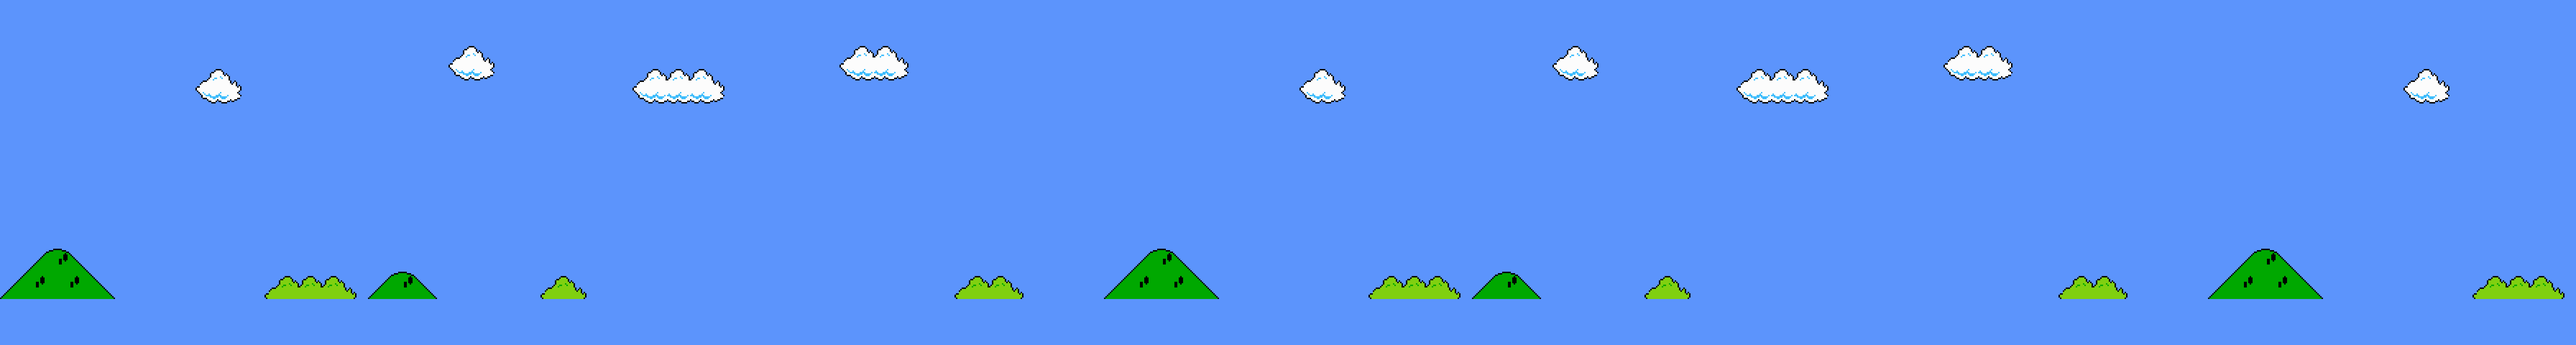
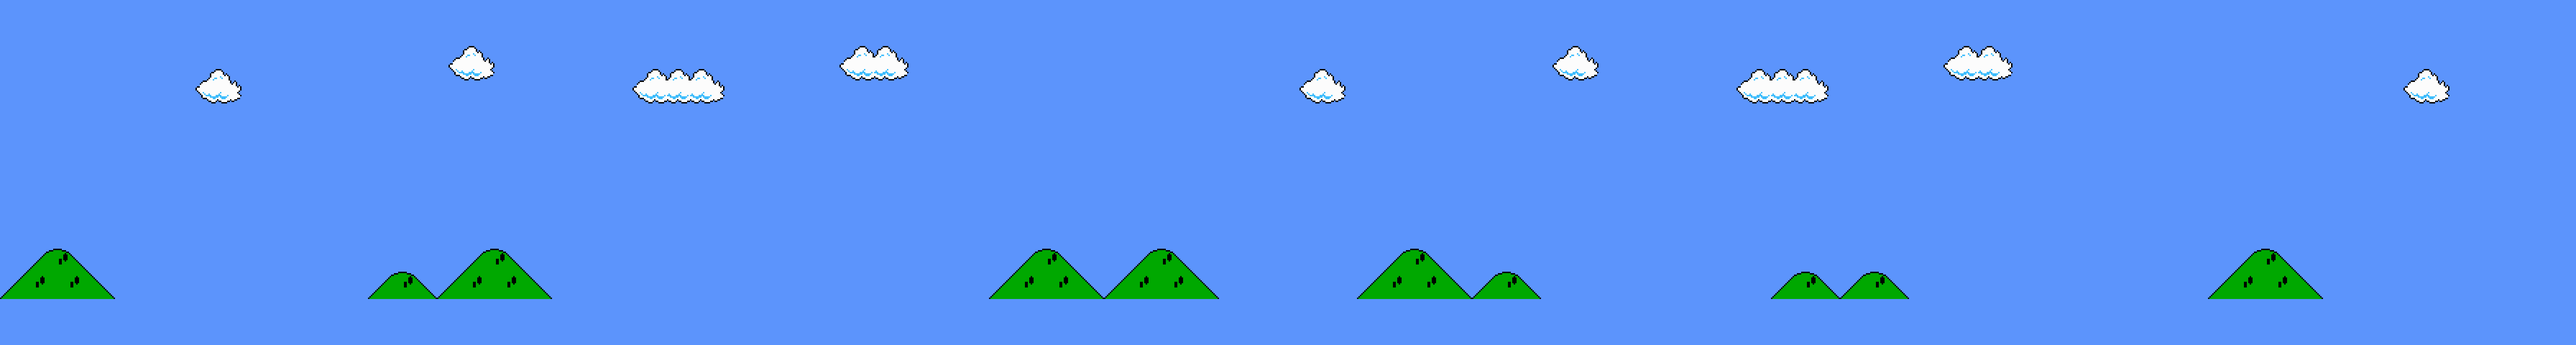
world scrolling in Y and background layers

diff --git a/models/Level/Level.py b/models/Level/Level.py
@@ -21,7 +21,8 @@ class Level():
         self.background = None
  
         # How far this world has been scrolled left/right
-        self.world_shift = 0
+        self.world_shift_x = 0
+        self.world_shift_y = 0
         self.level_limit = -1000
         self.platform_list = pygame.sprite.Group()
         self.enemy_list = pygame.sprite.Group()
@@ -41,18 +42,18 @@ class Level():
         # to give a feeling of depth.
         screen.fill(constants.BLUE)
         #layer 1 
-        screen.blit(self.background,(self.world_shift // 1,-360))
+        screen.blit(self.background,(self.world_shift_x // 2,(self.world_shift_y // 1) -360))
         #layer 2
-
+        screen.blit(self.background2,(self.world_shift_x // 1,(self.world_shift_y // 1) -360))
         # Draw all the sprite lists that we have
         self.platform_list.draw(screen)
         self.enemy_list.draw(screen)
  
-    def shift_world(self, shift_x):
+    def shift_world_x(self, shift_x):
         """ When the user moves left/right and we need to scroll everything: """
  
         # Keep track of the shift amount
-        self.world_shift += shift_x
+        self.world_shift_x += shift_x
  
         # Go through all the sprite lists and shift
         for platform in self.platform_list:
@@ -60,3 +61,16 @@ class Level():
  
         for enemy in self.enemy_list:
             enemy.rect.x += shift_x
+    
+    def shift_world_y(self, shift_y):
+        """ When the user moves left/right and we need to scroll everything: """
+ 
+        # Keep track of the shift amount
+        self.world_shift_y += shift_y
+ 
+        # Go through all the sprite lists and shift
+        for platform in self.platform_list:
+            platform.rect.y += shift_y
+ 
+        for enemy in self.enemy_list:
+            enemy.rect.y += shift_y

diff --git a/main.py b/main.py
@@ -59,14 +59,30 @@ def main():
         if player.rect.right >= 500:
             diff = player.rect.right - 500
             player.rect.right = 500
-            current_level.shift_world(-diff)
+            current_level.shift_world_x(-diff)
         # self.rect.colliderect(sprite.rect)
 
         # If the player gets near the left side, shift the world right (+x)
         if player.rect.left <= 120:
             diff = 120 - player.rect.left
             player.rect.left = 120
-            current_level.shift_world(diff)
+            current_level.shift_world_x(diff)
+
+
+        # If the player gets near the top, shift the world down (-y)
+        tmp = 64
+        if player.rect.top <= tmp:
+            diff = player.rect.top - tmp
+            player.rect.top = tmp
+            current_level.shift_world_y(-diff)
+        # self.rect.colliderect(sprite.rect)
+
+        # If the player gets near the bottom, shift the world up (+y)
+        tmp = constants.SCREEN_HEIGHT - 128
+        if player.rect.bottom >= tmp:
+            diff = tmp - player.rect.bottom
+            player.rect.bottom = tmp
+            current_level.shift_world_y(diff)
 
         # If the player gets to the end of the level, go to the next level
        # current_position = player.rect.x + current_level.world_shift

diff --git a/models/Level/Level_01.py b/models/Level/Level_01.py
@@ -15,12 +15,15 @@ class Level_01(Level):
         Level.__init__(self, player)
  
         self.background = pygame.image.load("static/img/world1_1.png").convert()
+        self.background2 = pygame.image.load("static/img/world1_2.png").convert()
         self.background.set_colorkey(constants.WHITE)
+        self.background2.set_colorkey(constants.BLUE)
         self.level_limit = -2500
  
         # Array with type of platform, and x, y location of the platform.
         bricks = [[platforms.BRICK2,20, 6],
                 [platforms.BRICK2,22, 6],
+                [platforms.BRICK2,22, 10],
                 [platforms.BRICK2,24,6],
                 [platforms.PIPE_TOP_LEFT,28, 4],
                 [platforms.PIPE_TOP_RIGHT,29,4],
@@ -32,6 +35,7 @@ class Level_01(Level):
                 [platforms.PIPE_RIGHT,39,4],
                 [platforms.PIPE_LEFT,38, 3],
                 [platforms.PIPE_RIGHT,39,3],]
+
         for platform in bricks:
             block = platforms.DestroPlatform(platform[0])
             block.rect.x = platform[1]*64

diff --git a/models/Characters/Oriam.py b/models/Characters/Oriam.py
@@ -80,7 +80,7 @@ class Oriam(pygame.sprite.Sprite):
  
         # Move left/right
         self.rect.x += self.change_x
-        pos = self.rect.x + self.level.world_shift
+        pos = self.rect.x + self.level.world_shift_x
         if self.direction == "R":
             frame = (pos // 60) % len(self.walking_frames_r)
             self.image = self.walking_frames_r[frame]
@@ -126,9 +126,9 @@ class Oriam(pygame.sprite.Sprite):
             self.change_y += .35
  
         # See if we are on the ground.
-        if self.rect.y >= constants.SCREEN_HEIGHT - self.rect.height and self.change_y >= 0:
-            self.change_y = 0
-            self.rect.y = constants.SCREEN_HEIGHT - self.rect.height
+        #if self.rect.y >= constants.SCREEN_HEIGHT - self.rect.height and self.change_y >= 0:
+        #    self.change_y = 0
+        #    self.rect.y = constants.SCREEN_HEIGHT - self.rect.height
  
     def jump(self):
         """ Called when user hits 'jump' button. """

diff --git a/models/Characters/Mob.py b/models/Characters/Mob.py
@@ -64,7 +64,7 @@ class Mob(pygame.sprite.Sprite):
 
         self.rect.x += self.delta_x
         
-        pos = self.rect.x + self.level.world_shift
+        pos = self.rect.x + self.level.world_shift_x
         if self.direction == "R":
             frame = (pos // 30) % len(self.walking_frames_r)
             self.image = self.walking_frames_r[frame]
@@ -106,9 +106,4 @@ class Mob(pygame.sprite.Sprite):
             self.delta_y = 1
         else:
             self.delta_y += .35
- 
-        # See if we are on the ground.
-        if self.rect.y >= constants.SCREEN_HEIGHT - self.rect.height and self.delta_y >= 0:
-            self.delta_y = 0
-            self.rect.y = constants.SCREEN_HEIGHT - self.rect.height
  

diff --git a/models/Level/platforms.py b/models/Level/platforms.py
@@ -105,6 +105,6 @@ class MovingPlatform(Platform):
         if self.rect.bottom > self.boundary_bottom or self.rect.top < self.boundary_top:
             self.change_y *= -1
  
-        cur_pos = self.rect.x - self.level.world_shift
+        cur_pos = self.rect.x - self.level.world_shift_x
         if cur_pos < self.boundary_left or cur_pos > self.boundary_right:
             self.change_x *= -1

diff --git a/constants.py b/constants.py
@@ -5,7 +5,7 @@ Global constants
 # Colors
 BLACK    = (   0,   0,   0) 
 WHITE    = ( 255, 255, 255) 
-BLUE     = (   0,   0, 255)
+BLUE     = (   92,   148, 252)
  
 # Screen dimensions
 SCREEN_WIDTH  = 800
